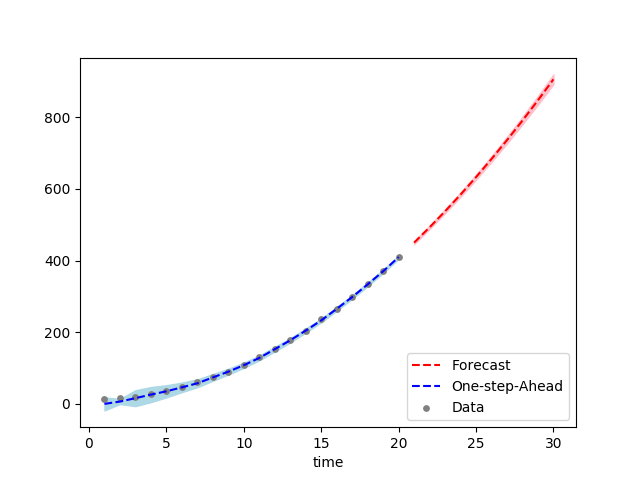
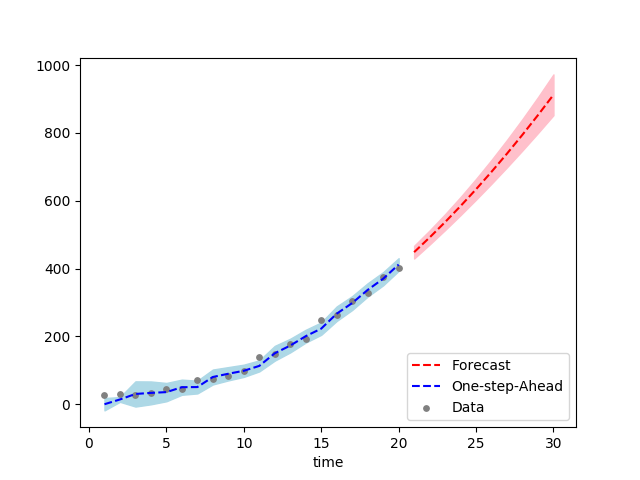
yes

diff --git a/README.md b/README.md
@@ -107,6 +107,8 @@ plt.show()
 #plt.savefig('img/linear.png')
 ```
 
+![Linear Trend DLM](img/linear.png)
+
 
 # Demo of 2-nd Order Polynomial Trend
 
@@ -123,7 +125,7 @@ np.random.seed(2404)
 n = 20
 nAhead = 10
 idx = np.linspace(1, n, n)
-y = idx**2 + np.random.normal(10, 1, n)
+y = idx**2 + np.random.normal(10, 10, n)
 
 # plot data (just for fun)
 plt.plot(idx, y, 'm*')
@@ -177,6 +179,8 @@ legend = plt.legend(loc='lower right')
 plt.show()
 #plt.savefig('img/quad.png')
 ```
+
+![Quadratic Trend DLM](img/quad.png)
 
 
 
